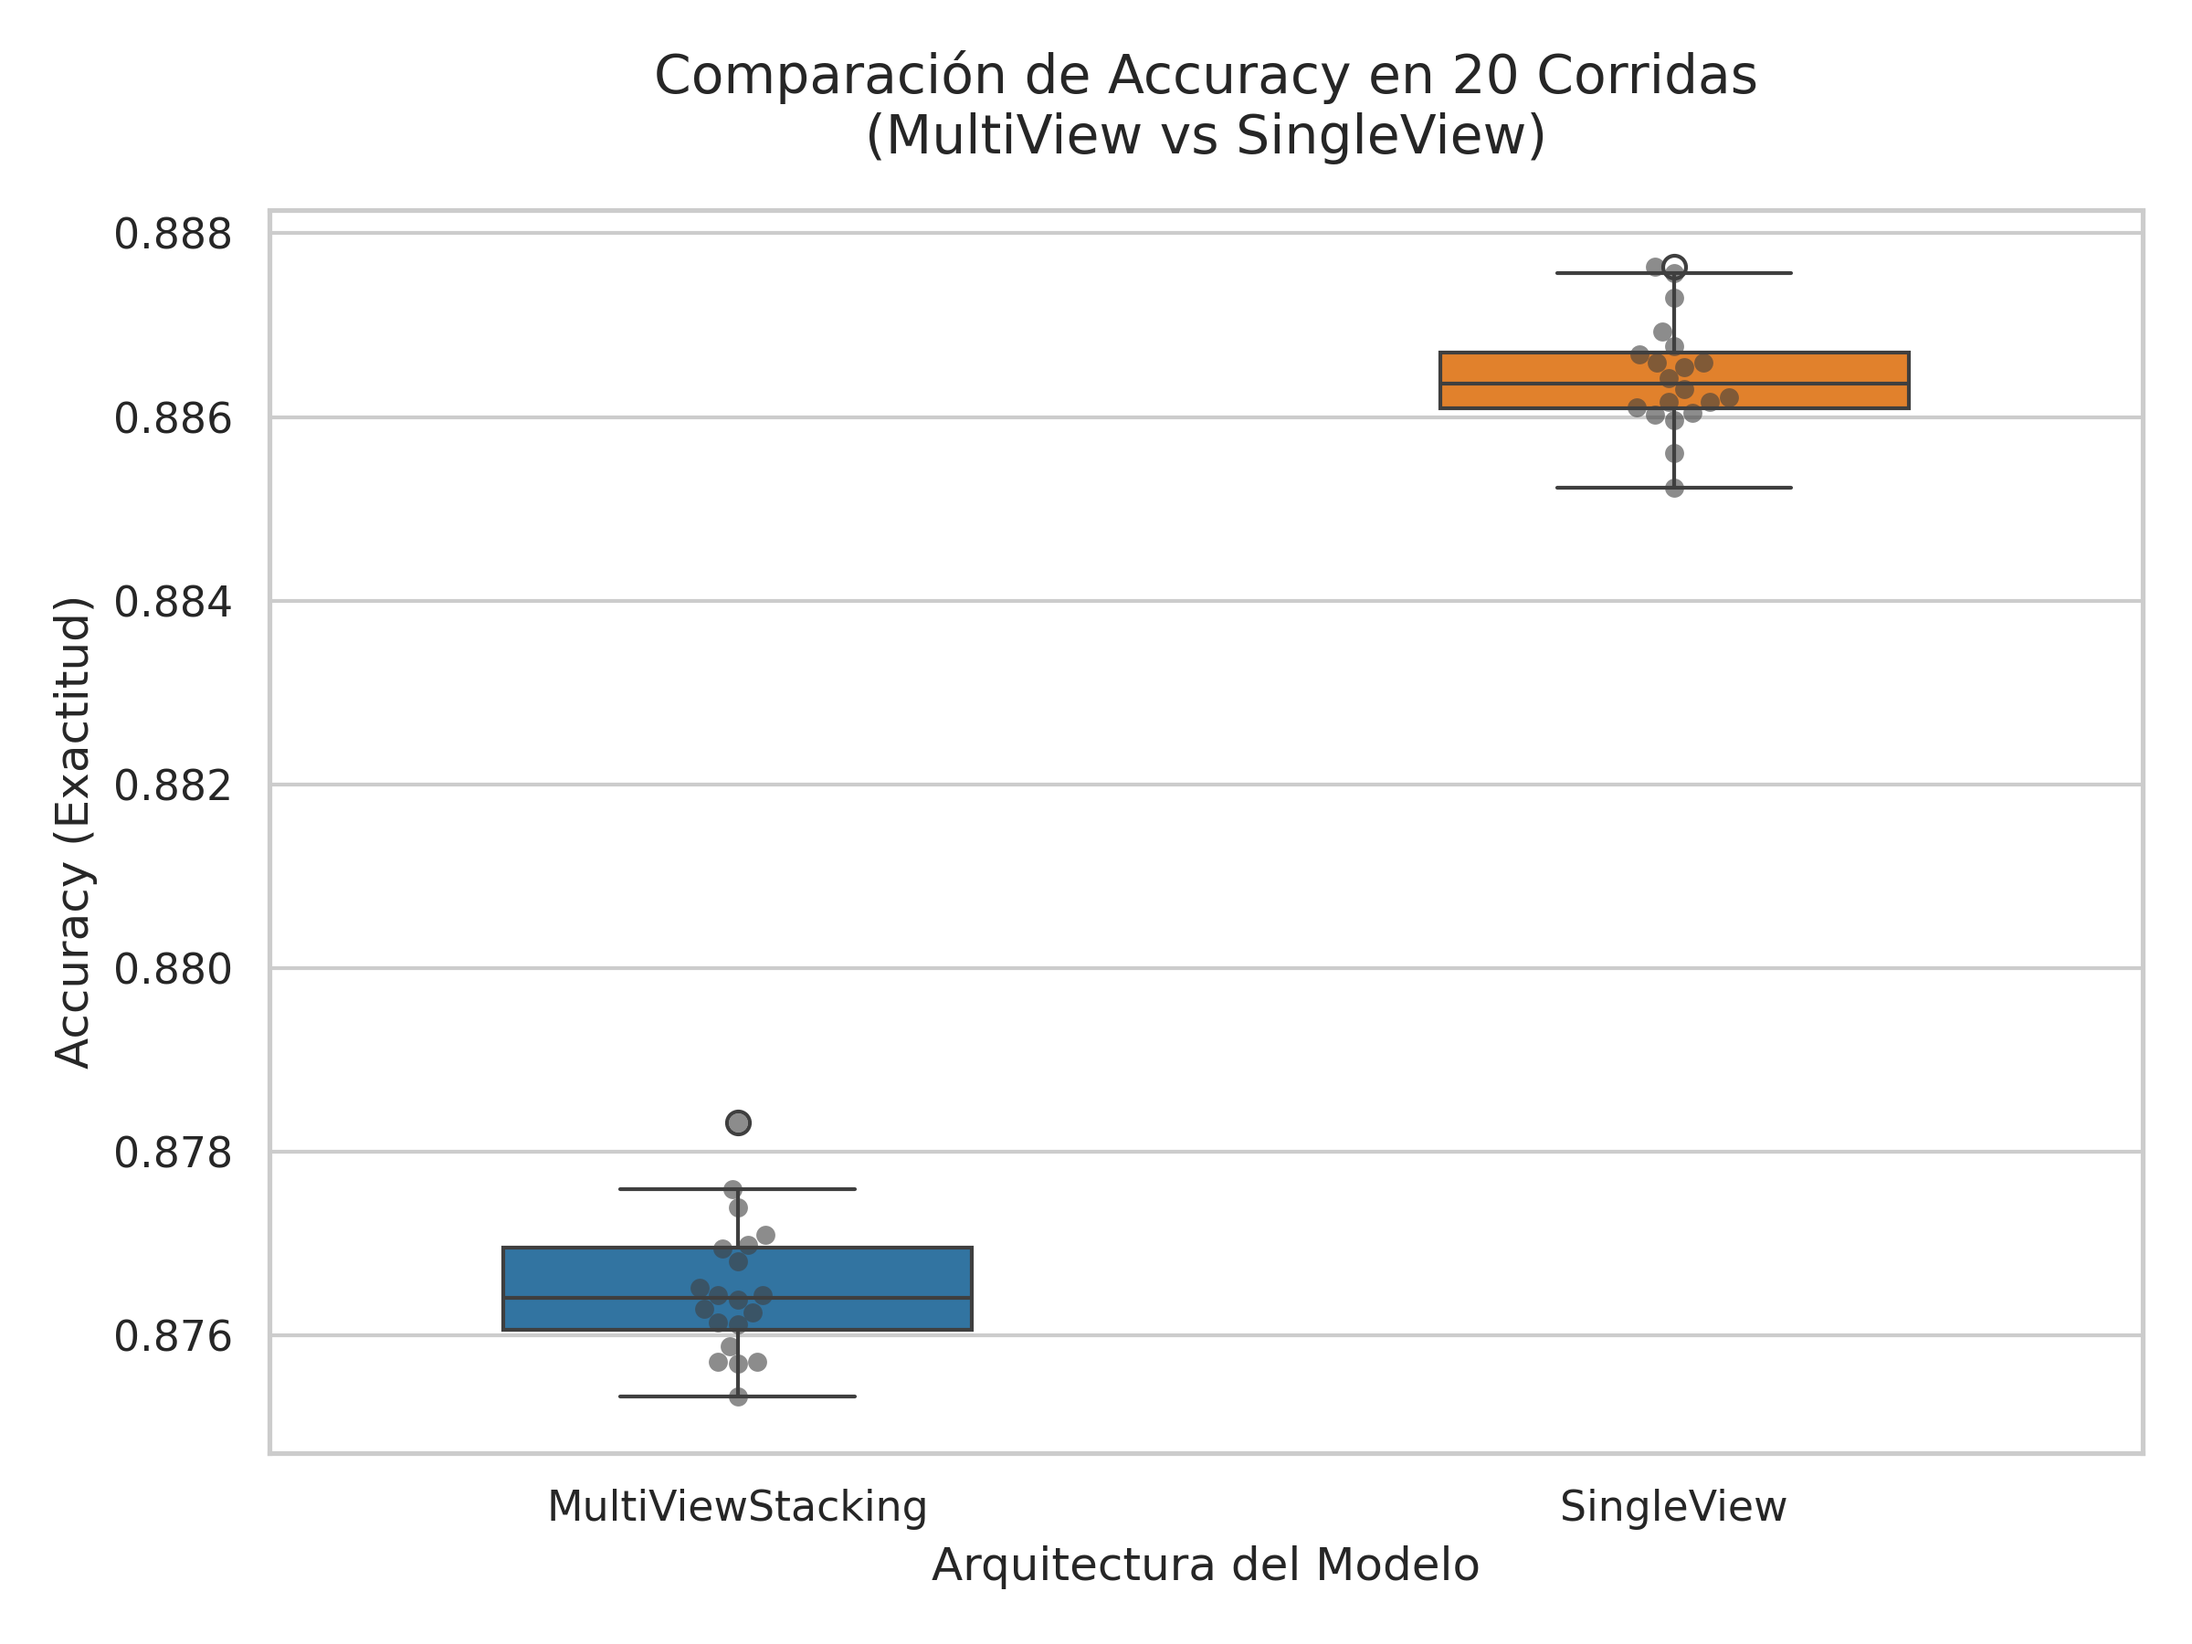
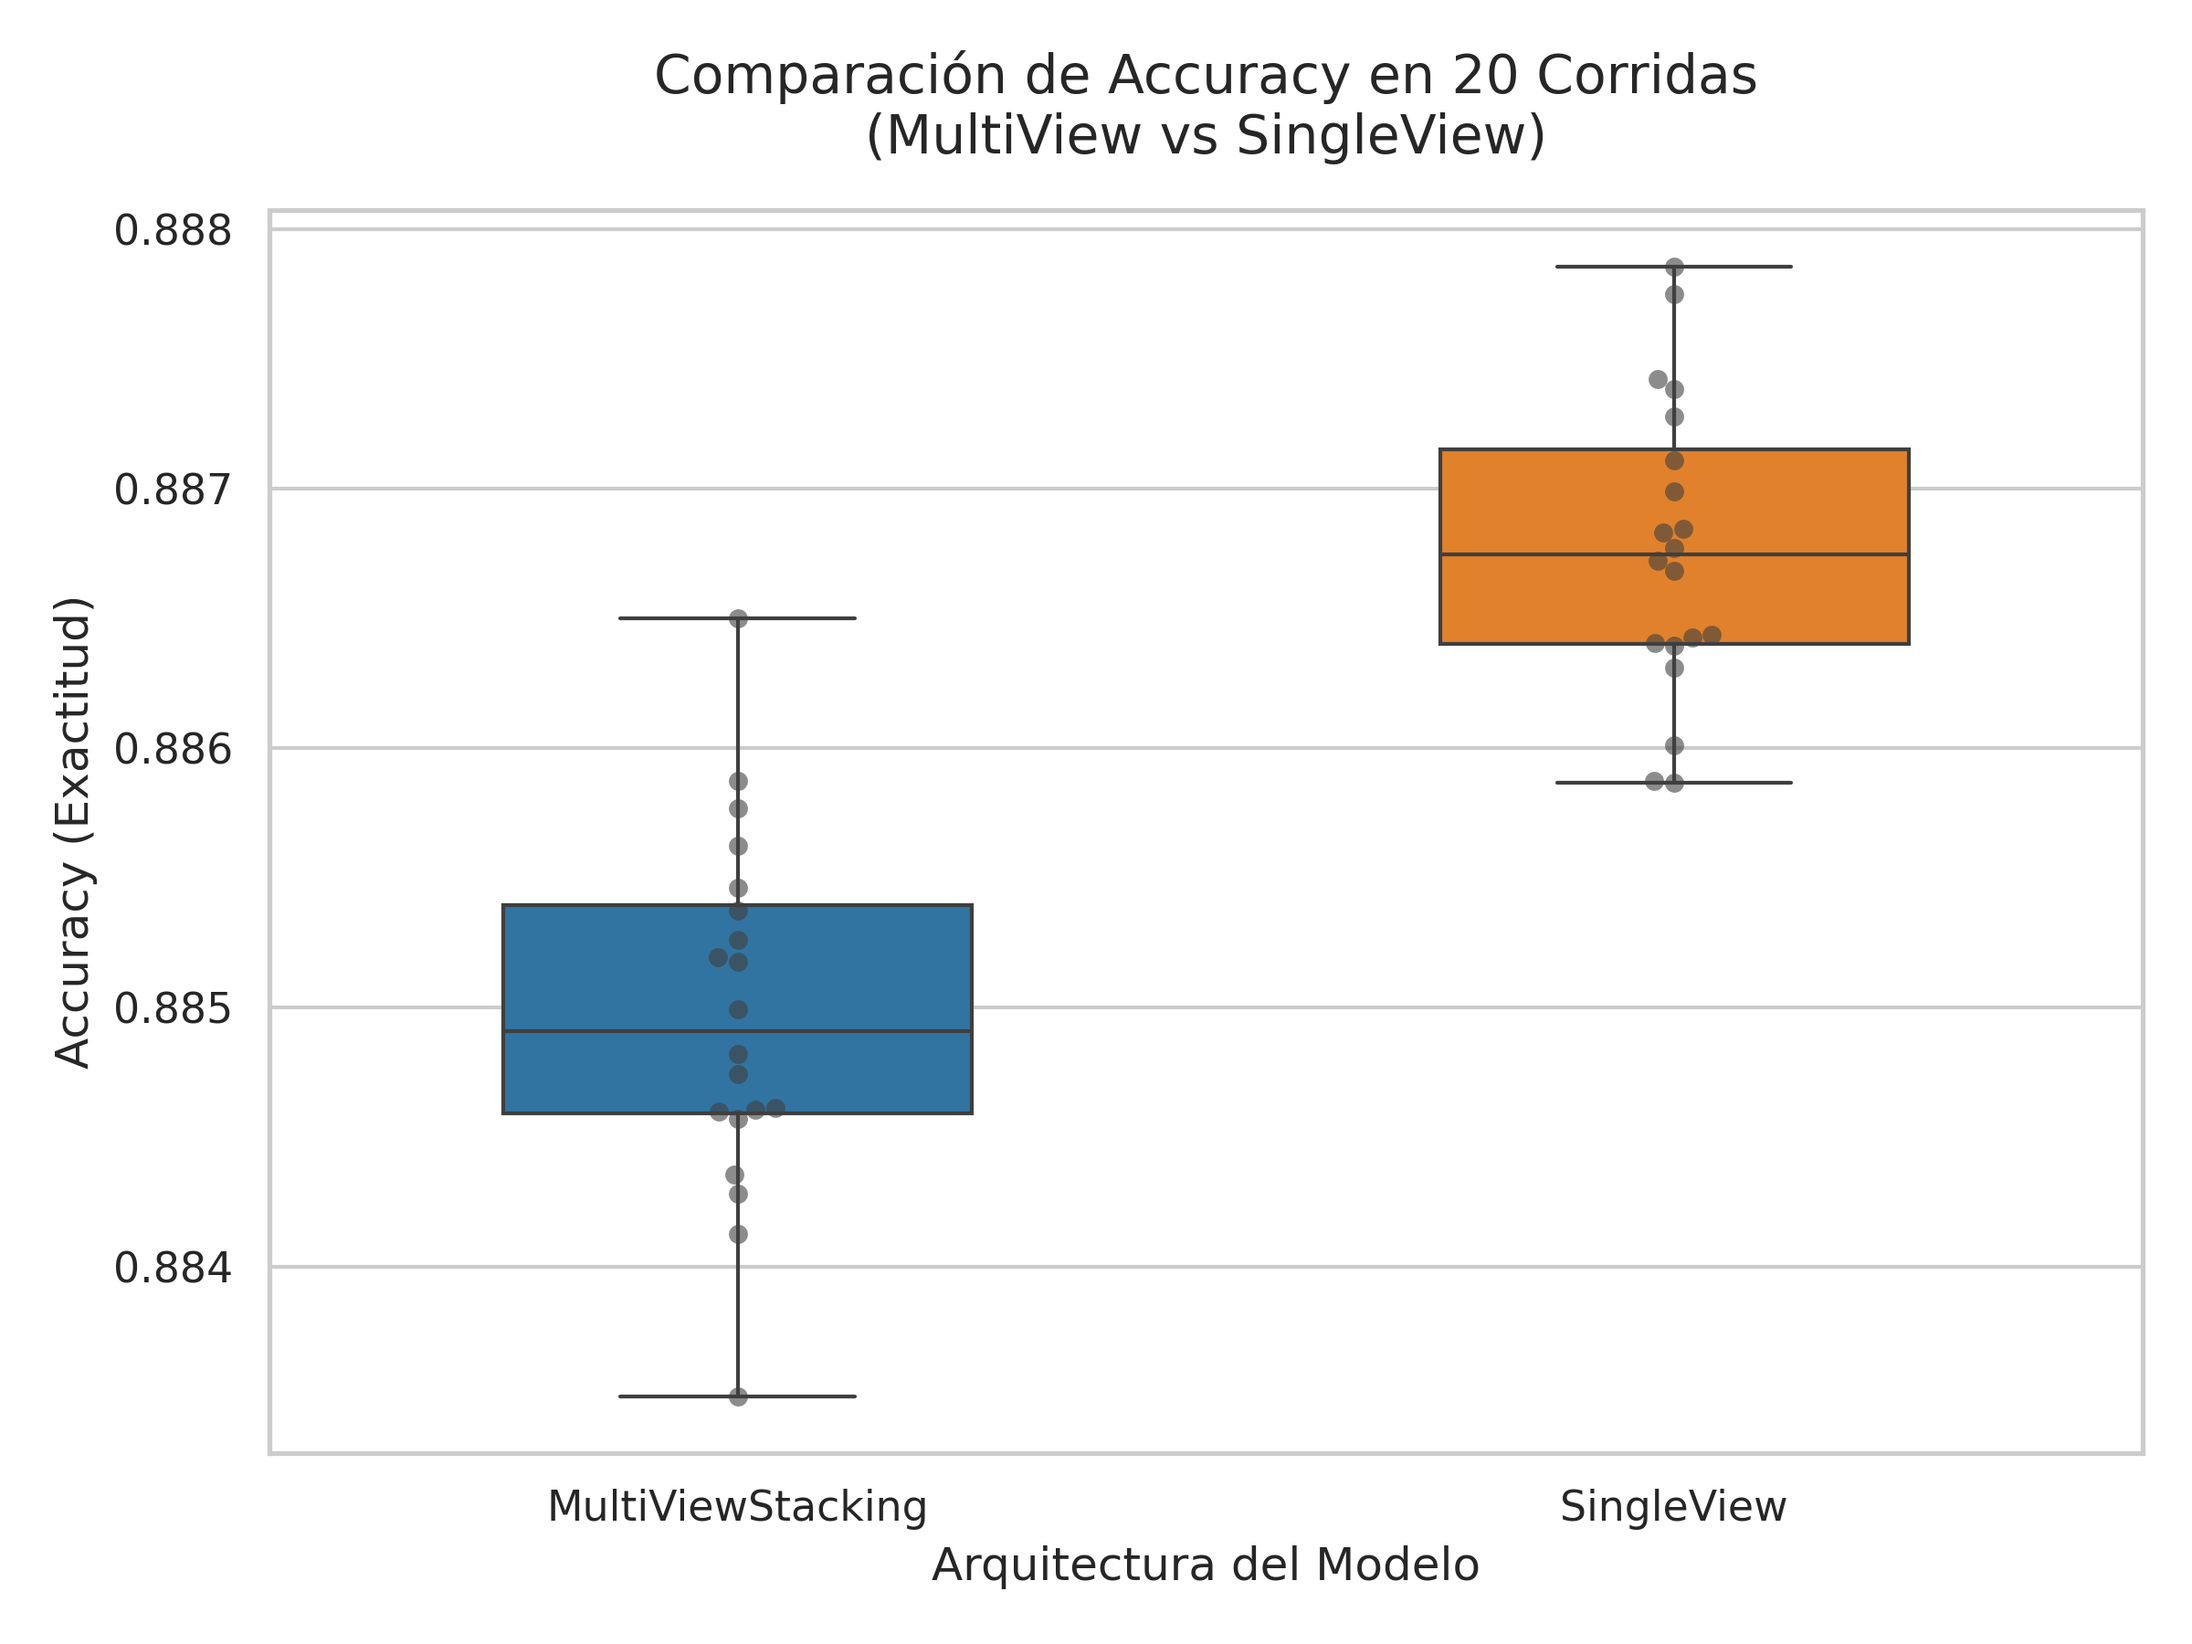
feat: test individual views results and generate new csv and graphic results using new graficar_vistas.py script

diff --git a/Code/graficar_vistas.py b/Code/graficar_vistas.py
@@ -1,0 +1,112 @@
+import pandas as pd
+import seaborn as sns
+import matplotlib.pyplot as plt
+from pathlib import Path
+
+# --- CONFIGURACIÓN DE RUTAS ---
+SCRIPT_DIR = Path(__file__).resolve().parent
+PROJECT_ROOT = SCRIPT_DIR.parent 
+ANALYSIS_DIR = PROJECT_ROOT / "Analysis" / "comparing"
+
+INPUT_RUNS = ANALYSIS_DIR / "multiview_vs_singleview_per_run.csv"
+INPUT_CLASS = ANALYSIS_DIR / "multiview_vs_singleview_per_class.csv"
+
+OUTPUT_BOXPLOT = ANALYSIS_DIR / "01_boxplot_global.png"
+OUTPUT_BAR_ENSAMBLES = ANALYSIS_DIR / "02_barplot_ensambles_por_clase.png"
+OUTPUT_BAR_VISTAS = ANALYSIS_DIR / "03_barplot_vistas_por_clase.png"
+
+def generar_graficas():
+    print("=" * 60)
+    print("📊 GENERANDO REPORTES VISUALES (ENSAMBLES Y VISTAS)")
+    print("=" * 60)
+
+    if not INPUT_RUNS.exists() or not INPUT_CLASS.exists():
+        print("❌ Error: Faltan archivos CSV en el directorio de Análisis.")
+        return
+
+    # =========================================================
+    # GRÁFICA 1: BOXPLOT CON ESCALA CORREGIDA
+    # =========================================================
+    df_runs = pd.read_csv(INPUT_RUNS)
+    
+    plt.figure(figsize=(12, 6))
+    sns.set_theme(style="whitegrid")
+    
+    orden_modelos = ["SingleView", "MultiViewStacking", "Vista_Tiempo", "Vista_Volumen", "Vista_Banderas", "Vista_Topologia"]
+    colores_box = {"SingleView": "#7f8c8d", "MultiViewStacking": "#2c3e50", "Vista_Tiempo": "#e74c3c", "Vista_Volumen": "#3498db", "Vista_Banderas": "#f1c40f", "Vista_Topologia": "#2ecc71"}
+
+    sns.boxplot(data=df_runs, x="model", y="accuracy", order=orden_modelos, palette=colores_box, width=0.5, showfliers=False)
+    sns.swarmplot(data=df_runs, x="model", y="accuracy", order=orden_modelos, color=".25", alpha=0.7, size=4)
+    
+    y_min = df_runs["accuracy"].min() - 0.02
+    y_max = df_runs["accuracy"].max() + 0.02
+    plt.ylim(y_min, y_max)
+    
+    plt.title("Estabilidad del Modelo Global (20 Iteraciones)", fontsize=14, fontweight='bold', pad=15)
+    plt.ylabel("Accuracy", fontsize=12)
+    plt.xlabel("")
+    plt.xticks(rotation=15)
+    plt.tight_layout()
+    plt.savefig(OUTPUT_BOXPLOT, dpi=300)
+    plt.close()
+    print(f"✅ Boxplot ajustado guardado como: {OUTPUT_BOXPLOT.name}")
+
+    # =========================================================
+    # PREPARACIÓN PARA GRÁFICAS POR CLASE
+    # =========================================================
+    df_class = pd.read_csv(INPUT_CLASS)
+    
+    # Separar los datos
+    df_ensambles = df_class[df_class["model"].isin(["SingleView", "MultiViewStacking"])]
+    df_vistas = df_class[df_class["model"].isin(["Vista_Tiempo", "Vista_Volumen", "Vista_Banderas", "Vista_Topologia"])]
+
+    # =========================================================
+    # GRÁFICA 2: ENSAMBLES POR CLASE (Single vs Multi)
+    # =========================================================
+    plt.figure(figsize=(14, 7))
+    colores_ensambles = {"SingleView": "#bdc3c7", "MultiViewStacking": "#2980b9"}
+    
+    sns.barplot(
+        data=df_ensambles, x="class", y="f1-score", hue="model", 
+        palette=colores_ensambles, capsize=.05, err_kws={'linewidth': 1.5}
+    )
+    
+    plt.title("Comparativa de Ensambles por Tipo de Ataque (F1-Score)", fontsize=15, fontweight='bold', pad=15)
+    plt.ylabel("F1-Score Promedio", fontsize=12)
+    plt.xlabel("Tipo de Tráfico / Ataque", fontsize=12)
+    plt.legend(bbox_to_anchor=(1.01, 1), loc='upper left', borderaxespad=0., title="Ensambles")
+    
+    plt.tight_layout()
+    plt.savefig(OUTPUT_BAR_ENSAMBLES, dpi=300)
+    plt.close()
+    print(f"✅ Gráfico Ensambles vs Clase guardado como: {OUTPUT_BAR_ENSAMBLES.name}")
+
+    # =========================================================
+    # GRÁFICA 3: VISTAS INDIVIDUALES POR CLASE
+    # =========================================================
+    plt.figure(figsize=(14, 7))
+    
+    colores_vistas = {
+        "Vista_Tiempo": "#e74c3c", 
+        "Vista_Volumen": "#3498db", 
+        "Vista_Banderas": "#f1c40f", 
+        "Vista_Topologia": "#2ecc71"
+    }
+    
+    sns.barplot(
+        data=df_vistas, x="class", y="f1-score", hue="model", 
+        palette=colores_vistas, capsize=.05, err_kws={'linewidth': 1.5}
+    )
+    
+    plt.title("Diagnóstico: Desempeño de Vistas Individuales por Tipo de Ataque (F1-Score)", fontsize=15, fontweight='bold', pad=15)
+    plt.ylabel("F1-Score Promedio", fontsize=12)
+    plt.xlabel("Tipo de Tráfico / Ataque", fontsize=12)
+    plt.legend(bbox_to_anchor=(1.01, 1), loc='upper left', borderaxespad=0., title="Vistas Base")
+    
+    plt.tight_layout()
+    plt.savefig(OUTPUT_BAR_VISTAS, dpi=300)
+    plt.close()
+    print(f"✅ Gráfico Vistas vs Clase guardado como: {OUTPUT_BAR_VISTAS.name}")
+
+if __name__ == "__main__":
+    generar_graficas()

diff --git a/Code/multiview_test.py b/Code/multiview_test.py
@@ -24,7 +24,7 @@ INPUT_DATASET = PROJECT_ROOT / "dataset_poc_multivista.csv"
 N_RUNS = 20
 SEED_GENERATOR_SEED = 2026
 TEST_SIZE = 0.30
-RF_ESTIMATORS = 100
+RF_ESTIMATORS = 150
 KFOLD = 3
 
 OUTPUT_DIR = PROJECT_ROOT / "Analysis" / "comparing"
@@ -148,8 +148,8 @@ def evaluate_multiview(X_train, y_train, X_test, y_test, seed, ind_vistas):
     ]
     """
 
-    #meta_learner = RandomForestClassifier(n_estimators=RF_ESTIMATORS, random_state=seed, n_jobs=-1) #Meta learner con random forest
-    meta_learner = LogisticRegression(random_state=seed, max_iter=1000) #Meta learner con regresión logística para evitar sobreajuste en el meta nivel
+    meta_learner = RandomForestClassifier(n_estimators=RF_ESTIMATORS, random_state=seed, n_jobs=-1) #Meta learner con random forest
+    #meta_learner = LogisticRegression(random_state=seed, max_iter=1000) #Meta learner con regresión logística para evitar sobreajuste en el meta nivel
 
     mv_model = MultiViewStacking(
         views_indices=ind_vistas,
@@ -220,10 +220,7 @@ def main():
         X_train_scaled = scaler.fit_transform(X_train_clean)
         X_test_scaled = scaler.transform(X_test_clean)
 
-        # Para compatibilidad con librerías que exigen numpy arrays o dataframes
-        # (El scaler ya devuelve numpy arrays)
-
-        # --- ENTRENAMIENTO Y EVALUACIÓN ---
+        # --- ENTRENAMIENTO Y EVALUACIÓN (Ensambles) ---
         sv_result, sv_preds = evaluate_singleview(
             X_train_scaled, y_train, X_test_scaled, y_test, run_seed
         )
@@ -231,7 +228,7 @@ def main():
             X_train_scaled, y_train, X_test_scaled, y_test, run_seed, ind_vistas
         )
 
-        # --- RECOLECCIÓN DE MÉTRICAS ---
+        # --- RECOLECCIÓN DE MÉTRICAS (Ensambles) ---
         mv_result["run"] = run_idx + 1
         sv_result["run"] = run_idx + 1
         all_results.extend([mv_result, sv_result])
@@ -244,6 +241,31 @@ def main():
             f"SingleView acc={sv_result['accuracy']:.4f} | "
             f"MultiView acc={mv_result['accuracy']:.4f}"
         )
+
+        # =========================================================
+        # NUEVO: EVALUACIÓN DE VISTAS INDIVIDUALES
+        # =========================================================
+        nombres_vistas = ["Tiempo", "Volumen", "Banderas", "Topologia"]
+        
+        for i, indices_vista in enumerate(ind_vistas):
+            
+            # Recortamos los datos para pasar solo las columnas de esta vista
+            X_train_vista = X_train_scaled[:, indices_vista]
+            X_test_vista = X_test_scaled[:, indices_vista]
+            
+            # Reutilizamos la función singleview para entrenar un RF puro en esta vista
+            v_result, v_preds = evaluate_singleview(
+                X_train_vista, y_train, X_test_vista, y_test, run_seed
+            )
+            
+            nombre_modelo_vista = f"Vista_{nombres_vistas[i]}"
+            v_result["model"] = nombre_modelo_vista
+            v_result["run"] = run_idx + 1
+            
+            all_results.append(v_result)
+            all_per_class.extend(metrics_per_class(y_test, v_preds, le, nombre_modelo_vista, run_idx + 1, run_seed))
+            
+            print(f"    -> {nombre_modelo_vista} acc: {v_result['accuracy']:.4f}")
 
     # --- GUARDADO DE RESULTADOS ---
     print("\n💾 Guardando reportes en disco...")
